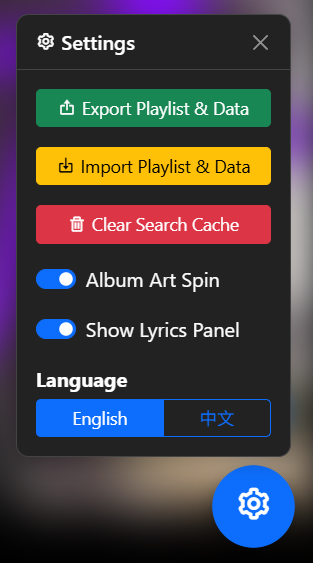
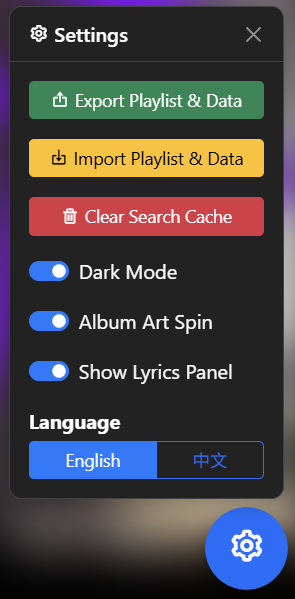
Move dark mode toggle button to the settings menu and maintain a consistent dark mode transition.

diff --git a/style.css b/style.css
@@ -232,18 +232,6 @@ body.dark-mode {
     color: white;
 }
 
-/* Dark Mode Toggle Button */
-#darkModeToggle {
-    background-color: black;
-    color: white;
-    padding: 10px 15px;
-    font-size: 16px;
-    font-weight: bold;
-    border: none;
-    border-radius: 8px;
-    transition: background-color 0.8s ease-in-out, color 0.8s ease-in-out, transform 0.1s ease-in-out;
-}
-
 /* Dark Mode - Toggle to White */
 body.dark-mode #darkModeToggle {
     background-color: white;
@@ -910,6 +898,11 @@ body:not(.dark-mode) #songList .list-group-item.selected .author-column {
 /* 🎵 Move Circle when ON */
 .switch input:checked + .slider::before {
     transform: translateX(24px);
+}
+
+.form-switch .form-check-input:checked {
+    background-color: #007bff !important;
+    border-color: #007bff !important;
 }
 
 /* 🎵 Repeat Button Styling */
@@ -1591,4 +1584,199 @@ body.dark-mode .lrc-line.highlight {
 /* Smooth transitions for lyrics text content */
 #lyricsText * {
   transition: color 0.8s ease-in-out, background-color 0.8s ease-in-out;
+}
+
+/* Fix: Settings Menu Dark Mode Transitions - Synchronized (0.8s) */
+.settings-menu {
+    transition: background-color 0.8s ease-in-out, color 0.8s ease-in-out, border-color 0.8s ease-in-out, opacity 0.3s ease-in-out, transform 0.3s ease-in-out, visibility 0.3s ease-in-out;
+}
+
+.settings-header {
+    transition: background-color 0.8s ease-in-out, color 0.8s ease-in-out, border-color 0.8s ease-in-out;
+}
+
+.settings-header h6 {
+    transition: color 0.8s ease-in-out;
+}
+
+.settings-body {
+    transition: background-color 0.8s ease-in-out, color 0.8s ease-in-out;
+}
+
+/* Settings form labels and text */
+.form-check-label,
+#languageLabel {
+    transition: color 0.8s ease-in-out;
+}
+
+.btn-group .btn {
+    transition: background-color 0.8s ease-in-out, color 0.8s ease-in-out, border-color 0.8s ease-in-out;
+}
+
+/* Settings icons transition */
+.settings-header i {
+    transition: color 0.8s ease-in-out;
+}
+
+/* Dark mode specific styles for settings */
+body.dark-mode .settings-menu {
+    background: #222;
+    border: 1px solid #444;
+}
+
+body.dark-mode .settings-header {
+    border-bottom: 1px solid #444;
+}
+
+body.dark-mode .settings-header h6 {
+    color: white;
+}
+
+body.dark-mode .settings-header i {
+    color: white;
+}
+
+body.dark-mode .form-check-label,
+body.dark-mode #languageLabel {
+    color: white !important;
+}
+
+body.dark-mode .btn-group .btn-outline-primary:hover {
+    color: white;
+    border-color: #007bff;
+    background-color: rgba(0, 123, 255, 0.1);
+}
+
+body.dark-mode .btn-group .btn-outline-primary.active {
+    background-color: #007bff;
+    border-color: #007bff;
+    color: white;
+}
+
+/* Settings close button dark mode - SYNCHRONIZED */
+body.dark-mode .settings-close-btn {
+    filter: invert(1);
+    transition: filter 0.8s ease-in-out;
+}
+
+/* Smooth transition for all text content in settings - SYNCHRONIZED */
+.settings-menu *:not(input):not(button):not(.form-check-input) {
+    transition: color 0.8s ease-in-out, background-color 0.8s ease-in-out, border-color 0.8s ease-in-out;
+}
+
+/* Dark Mode for Cards in settings menu */
+.settings-menu .card {
+    transition: background-color 0.8s ease-in-out, color 0.8s ease-in-out, border-color 0.8s ease-in-out;
+}
+
+body.dark-mode .settings-menu .card {
+    background-color: #333;
+    color: white;
+}
+
+/* Text color transitions for all text elements */
+.settings-menu span,
+.settings-menu label,
+.settings-menu h6,
+.settings-menu p {
+    transition: color 0.8s ease-in-out;
+}
+
+/* Specific for form check text */
+.form-check-label {
+    transition: color 0.8s ease-in-out !important;
+}
+
+/* Specific for language label */
+#languageLabel {
+    transition: color 0.8s ease-in-out !important;
+}
+
+/* Light mode text colors (ensure proper contrast) */
+body:not(.dark-mode) .form-check-label,
+body:not(.dark-mode) #languageLabel,
+body:not(.dark-mode) .settings-header h6 {
+    color: #212529 !important;
+}
+
+/* Ensure all settings menu items transition at 0.8s */
+.settings-menu .form-check,
+.settings-menu .form-switch,
+.settings-menu .mb-2,
+.settings-menu .btn-group {
+    transition: all 0.8s ease-in-out;
+}
+
+/* Smooth transition for the settings menu background when opening/closing */
+.settings-menu.show {
+    transition: all 0.3s ease-out, background-color 0.8s ease-in-out, color 0.8s ease-in-out, border-color 0.8s ease-in-out !important;
+}
+
+/* ================================
+   SETTINGS MENU BORDER – NO SNAP
+   ================================ */
+
+/* Base (LIGHT MODE) — border exists */
+.settings-menu {
+    border: 1px solid transparent; /* IMPORTANT */
+    transition:
+        background-color 0.8s ease-in-out,
+        color 0.8s ease-in-out,
+        border-color 0.8s ease-in-out,
+        opacity 0.3s ease-in-out,
+        transform 0.3s ease-in-out,
+        visibility 0.3s ease-in-out;
+}
+
+/* DARK MODE — ONLY change border-color */
+body.dark-mode .settings-menu {
+    background-color: #222;
+    border-color: #444;
+}
+
+/* ================================
+   SETTINGS HEADER BORDER – NO SNAP
+   ================================ */
+
+/* Base state */
+.settings-header {
+    border-bottom: 1px solid transparent;
+    transition:
+        background-color 0.8s ease-in-out,
+        color 0.8s ease-in-out,
+        border-color 0.8s ease-in-out;
+}
+
+/* Dark mode */
+body.dark-mode .settings-header {
+    border-bottom-color: #444;
+}
+
+/* ================================
+   SETTINGS CARDS BORDER – NO SNAP
+   ================================ */
+
+.settings-menu .card {
+    border: 1px solid transparent;
+    transition:
+        background-color 0.8s ease-in-out,
+        color 0.8s ease-in-out,
+        border-color 0.8s ease-in-out;
+}
+
+body.dark-mode .settings-menu .card {
+    background-color: #333;
+    color: white;
+    border-color: #444;
+}
+
+.btn-close {
+    filter: none;
+    opacity: 1;
+    transition: filter 0.8s ease-in-out, opacity 0.8s ease-in-out;
+}
+
+/* Dark mode */
+body.dark-mode .btn-close {
+    filter: invert(1);
 }

diff --git a/script.js b/script.js
@@ -1742,22 +1742,35 @@ document.getElementById("togglePlayerBtn").addEventListener("click", function ()
 
 document.addEventListener("DOMContentLoaded", function () {
     // Check if dark mode is enabled in local storage before page renders
-    if (localStorage.getItem("darkMode") === "enabled") {
+    const isDarkMode = localStorage.getItem("darkMode") === "enabled";
+    const darkModeToggle = document.getElementById("darkModeToggle");
+    
+    if (isDarkMode) {
         document.body.classList.add("dark-mode");
-        document.getElementById("darkModeToggle").innerHTML = "Disable";
+        if (darkModeToggle) darkModeToggle.checked = true;
         applyDarkModeToElements(true);
+    } else {
+        if (darkModeToggle) darkModeToggle.checked = false;
     }
 
     // Ensure body opacity animation starts only after dark mode is set
     document.body.style.opacity = "1";
 });
 
-document.getElementById("darkModeToggle").addEventListener("click", function () {
-    if (darkModeToggleInProgress) return; // Prevent spam clicking
+document.getElementById("darkModeToggle").addEventListener("change", function () {
+    if (darkModeToggleInProgress) {
+        // Revert the checkbox if toggle is in progress
+        this.checked = !this.checked;
+        return;
+    }
+    
     darkModeToggleInProgress = true;
 
     requestAnimationFrame(() => {
         const isDarkMode = document.body.classList.toggle("dark-mode");
+        
+        // Update the checkbox state to match the actual dark mode state
+        this.checked = isDarkMode;
 
         // Save the preference in local storage
         localStorage.setItem("darkMode", isDarkMode ? "enabled" : "disabled");
@@ -1774,10 +1787,6 @@ document.getElementById("darkModeToggle").addEventListener("click", function () 
                     elem.style.opacity = "1";
                 }, 50);
             });
-
-        // Change button text
-        const t = translations[currentLang];
-        this.innerHTML = isDarkMode ? t.darkModeDisable : t.darkModeEnable;
 
         // Prevent rapid toggling
         setTimeout(() => {
@@ -1797,6 +1806,11 @@ function applyDarkModeToElements(enable) {
             elem.style.transition = "color 0.8s ease-in-out";
             elem.style.color = enable ? "white" : "black";
         });
+
+    const darkModeToggle = document.getElementById("darkModeToggle");
+    if (darkModeToggle) {
+        darkModeToggle.checked = enable;
+    }
 }
 
 // Prevent text selection
@@ -2022,12 +2036,10 @@ function importPlaylist(file) {
                 if (importDarkMode) {
                     document.body.classList.add("dark-mode");
                     localStorage.setItem("darkMode", "enabled");
-                    document.getElementById("darkModeToggle").innerHTML = "Disable";
                     applyDarkModeToElements(true);
                 } else {
                     document.body.classList.remove("dark-mode");
                     localStorage.setItem("darkMode", "disabled");
-                    document.getElementById("darkModeToggle").innerHTML = "Enable";
                     applyDarkModeToElements(false);
                 }
 
@@ -2515,8 +2527,6 @@ const translations = {
     albumArtSpin: "Album Art Spin",
     showLyrics: "Show Lyrics Panel",
     darkMode: "Dark Mode",
-    darkModeEnable: "Enable",
-    darkModeDisable: "Disable",
     toggleLyricsTooltip: "Toggle to show or hide lyrics",
     videoPlayer: "Video Player",
     showPlayer: "Show Player",
@@ -2615,8 +2625,6 @@ const translations = {
     albumArtSpin: "唱片旋转",
     showLyrics: "显示歌词面板",
     darkMode: "深色模式",
-    darkModeEnable: "启用",
-    darkModeDisable: "关闭",
     toggleLyricsTooltip: "切换以显示或隐藏歌词",
     videoPlayer: "视频播放器",
     showPlayer: "显示播放器",
@@ -2806,6 +2814,7 @@ function applyLanguage(lang) {
     document.querySelector("#settingsClearCacheBtn") && (document.querySelector("#settingsClearCacheBtn").innerHTML = `<i class='bx bx-trash'></i> ${t.clearCache}`);
     document.querySelector("label[for='albumArtSpinToggle']") && (document.querySelector("label[for='albumArtSpinToggle']").textContent = t.albumArtSpin);
     document.querySelector("label[for='lyricsToggle']") && (document.querySelector("label[for='lyricsToggle']").textContent = t.showLyrics);
+    document.querySelector("label[for='darkModeToggle']") && (document.querySelector("label[for='darkModeToggle']").textContent = t.darkMode);
     const darkModeBtn = document.getElementById("darkModeToggle");
     if (darkModeBtn) {
     const isDarkMode = document.body.classList.contains("dark-mode");

diff --git a/index.html b/index.html
@@ -196,14 +196,6 @@
                     </div>
                 </div>
             </div>
-            
-            <div class="card shadow-lg" style="width: 16rem; min-height: 110px;">
-                <div class="card-body text-center">
-                    <h5 class="card-title fw-bold"><i class='bx bxs-moon'></i> Dark Mode</h5>
-                    <button id="darkModeToggle" class="btn btn-dark">Enable</button>
-                    </div>
-                </div>
-            </div>
         </div>
 
         <div class="d-flex justify-content-center align-items-start flex-wrap" style="margin-top: 20px; gap: 20px; padding-bottom: 20px;">
@@ -249,6 +241,10 @@
                     <button id="settingsClearCacheBtn" class="btn btn-danger btn-sm w-100 mb-2" title="Clear Search Cache">
                         <i class='bx bx-trash'></i> Clear Search Cache
                     </button>
+                    <div class="form-check form-switch dark-mode-switch mb-2">
+                        <input class="form-check-input darkModeToggle" type="checkbox" id="darkModeToggle">
+                        <label class="form-check-label" for="darkModeToggle">Dark Mode</label>
+                    </div>
                     <div class="form-check form-switch mb-2">
                         <input class="form-check-input" type="checkbox" id="albumArtSpinToggle">
                         <label class="form-check-label" for="albumArtSpinToggle">Album Art Spin</label>
